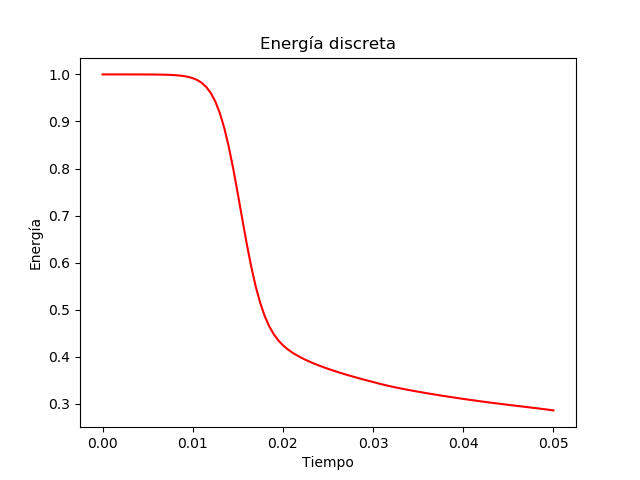
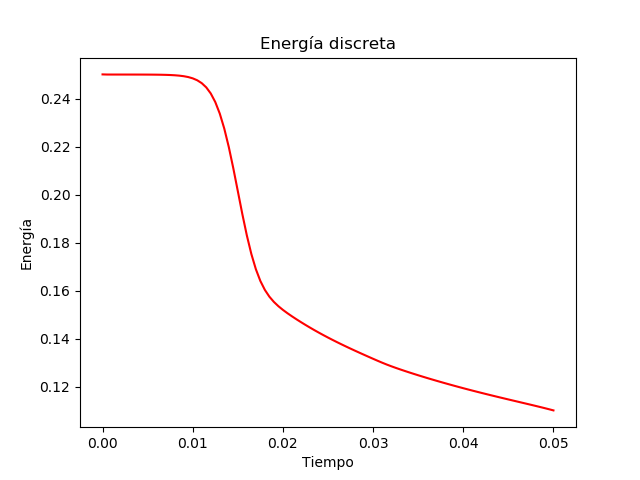
Corrijo expresión de la energía

diff --git a/cahn_hilliard_DG_EQ.py b/cahn_hilliard_DG_EQ.py
@@ -23,14 +23,14 @@ import numpy as np
 import matplotlib.pyplot as plt
 
 T = 0.05            # final time
-num_steps = 500     # number of time steps
+num_steps = 100     # number of time steps
 dt = T / num_steps # time step size
 eps = Constant(0.01)
 gamma = Constant(1.0)
 sigma = Constant(4.0) # penalty parameter
 B  = Constant(1.0)
 
-savepic = 1 # Indicates if pictures are saved or not
+savepic = 0 # Indicates if pictures are saved or not
 
 print("dt = %f" %(dt))
 
@@ -159,7 +159,7 @@ for i in range(num_steps):
     E_EQ.append(energyEQ)
     print('E_EQ =',energyEQ)
 
-    energy = assemble(0.5*pow(eps,2)*(dot(grad(phi_n),grad(phi_n))*dx - 2.0 * dot(avg(grad(phi_n)),n('+'))*jump(phi_n) * dS  + sigma/h('+') * pow(jump(phi_n),2) * dS) + pow(pow(phi_n,2)-1,2) * dx)
+    energy = assemble(0.5*pow(eps,2)*(dot(grad(phi_n),grad(phi_n))*dx - 2.0 * dot(avg(grad(phi_n)),n('+'))*jump(phi_n) * dS  + sigma/h('+') * pow(jump(phi_n),2) * dS) + 0.25 * pow(pow(phi_n,2)-1,2) * dx)
     E.append(energy)
     print('E =',energy)
 

diff --git a/cahn_hilliard_FEM_EQ.py b/cahn_hilliard_FEM_EQ.py
@@ -34,7 +34,7 @@ savepic = 0 # Indicates if pictures are saved or not
 print("dt = %f" %(dt))
 
 # Create mesh and define function space
-nx = ny = 500 # Boundary points
+nx = ny = 100 # Boundary points
 print("nx = ny = %d" %(nx))
 
 mesh = UnitSquareMesh(nx,ny)
